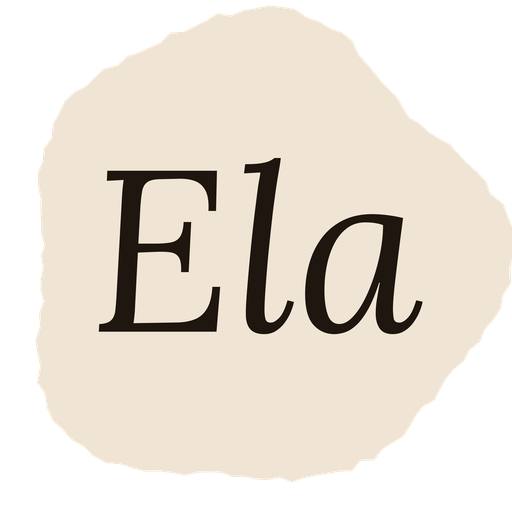
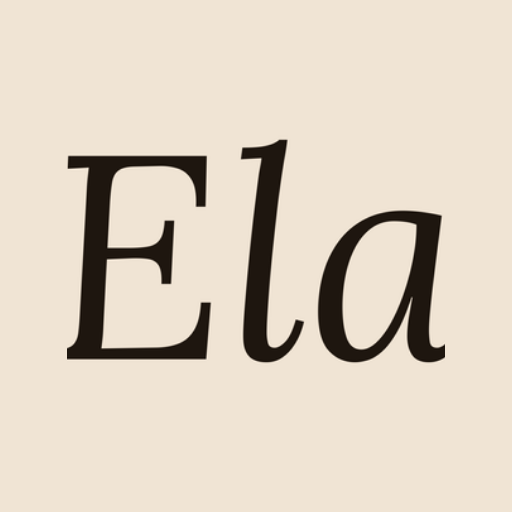
Bolsa como JB, sin parpadeo al cargar e íconos de la app arreglados
- Al agregar a la bolsa ya no se abre sola: sale un aviso con "Ver bolsa".
- La cantidad no baja de 1 con "−" ni pasa de la existencia; se puede
  escribir a mano.
- Sin parpadeo: lo que se ve al abrir aparece enseguida y cada sección
  se anima una sola vez (antes se prendían y apagaban en el borde).
- Íconos de la app de la tienda con fondo crema completo y "Ela"
  centrado (antes salía cortado y con manchas negras).

Claude-Session: https://claude.ai/code/session_01U8XhGfyy5eipPexF12LXMT

diff --git a/src/components/Storefront.tsx b/src/components/Storefront.tsx
@@ -55,6 +55,21 @@ const prettyDate = (iso: string) => { const [y, m, d] = iso.split('-').map(Numbe
 /** Si una foto no carga (enlace roto), muestra la imagen de respaldo. */
 const onImgError = (event: React.SyntheticEvent<HTMLImageElement>) => { const img = event.currentTarget; if (!img.src.endsWith(PLACEHOLDER)) img.src = PLACEHOLDER }
 
+/** Cantidad escrita a mano (igual que en JB): no deja pasar de lo que hay
+ * en existencia ni bajar de 1. */
+function QtyInput({ value, max, onChange }: { value: number; max: number; onChange: (next: number) => void }) {
+  const [draft, setDraft] = useState<string | null>(null)
+  const limit = Math.max(1, max)
+  return <input className="qty-input" type="number" inputMode="numeric" pattern="[0-9]*" min={1} max={limit} aria-label="Cantidad" value={draft ?? String(value)}
+    onFocus={(event) => event.target.select()}
+    onChange={(event) => {
+      const next = Math.floor(Number(event.target.value))
+      setDraft(Number.isFinite(next) && next > limit ? String(limit) : event.target.value)
+      if (Number.isFinite(next) && next >= 1) onChange(Math.min(next, limit))
+    }}
+    onBlur={() => setDraft(null)} />
+}
+
 /** Logotipo tipográfico de ELA: "Ela" en trazo cursivo + "esencia" en
  * versalitas espaciadas debajo — sin insignia circular. */
 function BrandMark({ className = '' }: { className?: string }) {
@@ -88,14 +103,27 @@ function BlockSprig({ left: Left, right: Right }: { left: React.ComponentType; r
  * los elementos nuevos que se agregan al DOM. */
 function useScrollReveal(deps: unknown[]) {
   useEffect(() => {
-    if (typeof IntersectionObserver === 'undefined') return
-    const observer = new IntersectionObserver(
-      (entries) => {
-        for (const entry of entries) entry.target.classList.toggle('in-view', entry.isIntersecting)
-      },
-      { threshold: 0.15, rootMargin: '0px 0px -6% 0px' },
-    )
-    document.querySelectorAll('.reveal').forEach((element) => observer.observe(element))
+    const root = document.documentElement
+    const elements = Array.from(document.querySelectorAll<HTMLElement>('.reveal:not(.in-view)'))
+    if (typeof IntersectionObserver === 'undefined') { elements.forEach((element) => element.classList.add('in-view')); return }
+    // Lo que ya se ve en pantalla se muestra enseguida (sin esconderlo
+    // primero): antes todo empezaba invisible y la página "parpadeaba".
+    const viewport = window.innerHeight
+    for (const element of elements) {
+      const box = element.getBoundingClientRect()
+      if (box.top < viewport && box.bottom > 0) element.classList.add('in-view')
+    }
+    root.classList.add('reveal-on')
+    // Cada sección se anima UNA sola vez. Antes se volvía a esconder al
+    // salir de pantalla y, en el borde, se prendía y apagaba sin parar.
+    const observer = new IntersectionObserver((entries) => {
+      for (const entry of entries) {
+        if (!entry.isIntersecting) continue
+        entry.target.classList.add('in-view')
+        observer.unobserve(entry.target)
+      }
+    }, { threshold: 0.12 })
+    elements.filter((element) => !element.classList.contains('in-view')).forEach((element) => observer.observe(element))
     return () => observer.disconnect()
     // eslint-disable-next-line react-hooks/exhaustive-deps
   }, deps)
@@ -158,21 +186,38 @@ export function Storefront({ data }: Props) {
   const cartCount = cart.reduce((sum, line) => sum + line.quantity, 0)
   const subtotal = cart.reduce((sum, line) => sum + line.price * line.quantity, 0)
 
+  // Al agregar NO se abre la bolsa (igual que en JB): sale un aviso con
+  // "Ver bolsa" y la clienta sigue viendo productos.
+  const [toast, setToast] = useState<{ title: string; name: string; image: string } | null>(null)
+  const [toastVisible, setToastVisible] = useState(false)
+  const toastTimer = useRef<ReturnType<typeof setTimeout> | null>(null)
+  const showToast = (next: { title: string; name: string; image: string }) => {
+    setToast(next); setToastVisible(true)
+    if (toastTimer.current) clearTimeout(toastTimer.current)
+    toastTimer.current = setTimeout(() => setToastVisible(false), 3200)
+  }
   const addToCart = (product: Product) => {
+    const inCart = cart.find((line) => line.productId === product.id)?.quantity ?? 0
+    if (inCart >= product.stock) {
+      showToast({ title: `Ya tienes en la bolsa todas las que hay (${product.stock})`, name: product.name, image: product.image })
+      return
+    }
     setCart((current) => {
       const existing = current.find((line) => line.productId === product.id)
       if (existing) return current.map((line) => line.productId === product.id ? { ...line, quantity: Math.min(line.quantity + 1, product.stock) } : line)
       return [...current, { productId: product.id, name: product.name, price: product.price, quantity: 1, image: product.image }]
     })
-    setCartOpen(true)
+    showToast({ title: inCart ? `Agregado a tu bolsa · ya son ${inCart + 1}` : 'Agregado a tu bolsa', name: product.name, image: product.image })
   }
 
-  const changeQuantity = (id: number, delta: number) => setCart((current) => current.flatMap((line) => {
-    if (line.productId !== id) return [line]
-    const product = goods.find((item) => item.id === id)
-    const quantity = Math.min(line.quantity + delta, product?.stock ?? line.quantity)
-    return quantity > 0 ? [{ ...line, quantity }] : []
-  }))
+  const stockOf = (id: number) => goods.find((item) => item.id === id)?.stock ?? 0
+  // La cantidad nunca baja de 1 con el botón "−": para quitar un producto
+  // está el botón de la papelera. Tampoco pasa de lo que hay en existencia.
+  const setQuantity = (id: number, quantity: number) => setCart((current) => current.map((line) => line.productId === id ? { ...line, quantity: Math.max(1, Math.min(Math.floor(quantity) || 1, Math.max(1, stockOf(id)))) } : line))
+  const changeQuantity = (id: number, delta: number) => {
+    const line = cart.find((item) => item.productId === id)
+    if (line) setQuantity(id, line.quantity + delta)
+  }
 
   async function submitOrder(event: React.FormEvent<HTMLFormElement>) {
     event.preventDefault()
@@ -343,9 +388,13 @@ export function Storefront({ data }: Props) {
 
     {whatsapp && <a className="wa-float" href={waHref('Hola ELA, quiero información.')} target="_blank" rel="noreferrer" aria-label="Escríbenos por WhatsApp"><MessageCircle /><span>¿Dudas? Escríbenos</span></a>}
 
+    <div className={`cart-toast ${toastVisible ? 'visible' : ''}`} role="status" aria-live="polite">
+      {toast && <><img src={toast.image || PLACEHOLDER} alt="" onError={onImgError} /><div><strong>{toast.title}</strong><span>{toast.name}</span></div><button onClick={() => { setToastVisible(false); setCartOpen(true) }}>Ver bolsa</button></>}
+    </div>
+
     <div className={`overlay ${cartOpen ? 'visible' : ''}`} onClick={() => setCartOpen(false)} />
     <aside className={`cart-drawer ${cartOpen ? 'open' : ''}`}><div className="drawer-head"><div><span className="drawer-kicker">BOLSA · {cartCount} PIEZAS</span><h2>{copy.cartTitle}</h2></div><button className="icon-button" onClick={() => setCartOpen(false)} aria-label="Cerrar bolsa"><X /></button></div>
-      <div className="cart-lines">{cart.map((line) => <div className="cart-line" key={line.productId}><img src={line.image || PLACEHOLDER} alt="" onError={onImgError} /><div><h4>{line.name}</h4><p>{money(line.price)}</p><div className="quantity"><button onClick={() => changeQuantity(line.productId, -1)} aria-label="Quitar uno"><Minus /></button><span>{line.quantity}</span><button onClick={() => changeQuantity(line.productId, 1)} aria-label="Agregar uno"><Plus /></button></div></div><button className="remove" aria-label="Quitar de la bolsa" onClick={() => setCart((current) => current.filter((item) => item.productId !== line.productId))}><Trash2 /></button></div>)}{!cart.length && <div className="empty-cart"><ShoppingBag /><h3>Tu bolsa está esperando</h3><p>Elige algún producto artesanal.</p></div>}</div>
+      <div className="cart-lines">{cart.map((line) => <div className="cart-line" key={line.productId}><img src={line.image || PLACEHOLDER} alt="" onError={onImgError} /><div><h4>{line.name}</h4><p>{money(line.price)}</p><div className="quantity"><button onClick={() => changeQuantity(line.productId, -1)} disabled={line.quantity <= 1} aria-label="Quitar uno"><Minus /></button><QtyInput value={line.quantity} max={stockOf(line.productId)} onChange={(next) => setQuantity(line.productId, next)} /><button onClick={() => changeQuantity(line.productId, 1)} disabled={line.quantity >= stockOf(line.productId)} aria-label="Agregar uno"><Plus /></button></div>{line.quantity >= stockOf(line.productId) && <small className="qty-max">Son todas las que hay</small>}</div><button className="remove" aria-label="Quitar de la bolsa" onClick={() => setCart((current) => current.filter((item) => item.productId !== line.productId))}><Trash2 /></button></div>)}{!cart.length && <div className="empty-cart"><ShoppingBag /><h3>Tu bolsa está esperando</h3><p>Elige algún producto artesanal.</p></div>}</div>
       <div className="cart-summary"><div><span>Subtotal</span><strong>{money(subtotal)}</strong></div><p>La entrega se coordina después de confirmar el pedido.</p><button className="primary-button full" disabled={!cart.length} onClick={() => { setCartOpen(false); setCheckoutOpen(true) }}>Continuar al checkout <ArrowRight /></button></div>
     </aside>
 

diff --git a/src/styles.css b/src/styles.css
@@ -264,8 +264,11 @@ form input,form textarea,form select,.editor-fields input,.editor-fields textare
    (fade + sube) cuando entra en pantalla y vuelve a su estado oculto
    si sale de pantalla (subiendo hacia el navbar u otra vez hacia
    abajo), para que la animación se repita cada vez que se cruza. */
-.reveal{opacity:0;transform:translateY(34px);transition:opacity .9s cubic-bezier(.16,.84,.44,1),transform .9s cubic-bezier(.16,.84,.44,1)}
-.reveal.in-view{opacity:1;transform:none}
+/* Solo se esconde lo que está más abajo de la pantalla, y solo cuando ya
+   cargó el código (clase reveal-on): sin eso, la página se veía en blanco
+   y luego aparecía de golpe. */
+.reveal{transition:opacity .8s cubic-bezier(.16,.84,.44,1),transform .8s cubic-bezier(.16,.84,.44,1)}
+.reveal-on .reveal:not(.in-view){opacity:0;transform:translateY(24px)}
 .reveal.in-view.delay-1{transition-delay:.12s}
 .reveal.in-view.delay-2{transition-delay:.24s}
 .reveal.in-view.delay-3{transition-delay:.36s}
@@ -841,3 +844,17 @@ img{max-width:100%}
 .price-was{display:block;font:400 13px var(--font-body);color:var(--muted);text-decoration:line-through}
 @media(max-width:620px){.service-info .product-action strong{font-size:19px}.product-action strong{font-size:22px}}
 .product-modal .invoice-summary{margin:0 0 18px;line-height:1.5}
+
+/* ═══ Bolsa como JB: aviso al agregar y cantidad mínima 1 ═══ */
+.cart-toast{position:fixed;left:50%;bottom:18px;z-index:70;display:flex;align-items:center;gap:12px;width:min(440px,calc(100vw - 24px));background:var(--ink);color:white;padding:10px 10px 10px 10px;box-shadow:0 18px 40px -12px rgba(20,16,10,.55);transform:translate(-50%,140%);opacity:0;transition:transform .4s cubic-bezier(.16,.84,.44,1),opacity .3s;pointer-events:none}
+.cart-toast.visible{transform:translate(-50%,0);opacity:1;pointer-events:auto}
+.cart-toast img{width:46px;height:46px;object-fit:cover;flex:none}
+.cart-toast div{flex:1;min-width:0}
+.cart-toast strong{display:block;font-size:13px}
+.cart-toast span{display:block;font-size:12px;color:#d8c9b2;white-space:nowrap;overflow:hidden;text-overflow:ellipsis}
+.cart-toast button{flex:none;border:0;background:var(--gold);color:var(--ink);font-weight:700;font-size:13px;padding:10px 14px;cursor:pointer}
+@media(max-width:620px){.cart-toast{bottom:84px}}
+.quantity button:disabled{opacity:.3;cursor:not-allowed}
+.qty-input{width:38px;border:0;background:transparent;text-align:center;font:11px var(--font-mono);padding:4px 0;-moz-appearance:textfield}
+.qty-input::-webkit-outer-spin-button,.qty-input::-webkit-inner-spin-button{-webkit-appearance:none;margin:0}
+.qty-max{display:block;margin-top:6px;font-size:11px;color:var(--gold-dark)}

diff --git a/src/routes/__root.tsx b/src/routes/__root.tsx
@@ -80,7 +80,7 @@ export const Route = createRootRoute({
       { rel: 'icon', type: 'image/png', sizes: '16x16', href: '/favicon-16x16.png' },
       { rel: 'icon', type: 'image/png', sizes: '32x32', href: '/favicon-32x32.png' },
       { rel: 'icon', type: 'image/png', sizes: '48x48', href: '/favicon-48x48.png' },
-      { rel: 'apple-touch-icon', sizes: '180x180', href: '/apple-touch-icon.png' },
+      { rel: 'apple-touch-icon', sizes: '180x180', href: '/apple-touch-icon.png?v=2' },
       { rel: 'msapplication-config', href: '/browserconfig.xml' },
     ],
   }),

diff --git a/AGENTS.md b/AGENTS.md
@@ -78,3 +78,9 @@ ELA es una aplicación TanStack Start desplegada en Cloudflare Workers, para un 
 - **Gastos** (tabla `expenses`): 'negocio' o 'personal'.
 - **Finanzas** (en `AdminPanel.tsx`): cuentan pedidos y citas "Pagado" no cancelados (las citas no tienen costo). Mismas fórmulas que JB: Dinero del negocio = capital inicial − compras con dinero del negocio + (costo de lo vendido − recuperado de reinversión) − gastos del negocio; Dinero para reinvertir = % de la ganancia del negocio − compras con ese dinero + lo recuperado; Puedes retirar = el resto de la ganancia + ganancia propia de la reinversión − gastos personales. `capitalInicial` y `reinvestPercent` están en `content` (privados).
 - El crédito "GADR Net" del pie usa el mismo estilo oficial que JB (letra recta, "Net" en #9FAD90, punto #B2603C).
+
+## Bolsa, animaciones e íconos (septiembre 2026)
+
+- **Bolsa como JB:** al agregar NO se abre la bolsa; sale un aviso con "Ver bolsa". La cantidad nunca baja de 1 con "−" (para quitar está la papelera) ni pasa de la existencia; se puede escribir a mano (`QtyInput`).
+- **Animaciones al bajar:** lo que ya está en pantalla se muestra enseguida y cada sección se anima una sola vez (`useScrollReveal` + clase `reveal-on` en `<html>`). Antes todo empezaba invisible y las secciones del borde se prendían y apagaban (parpadeo).
+- **Íconos de la tienda** (`android-chrome-*`, `apple-touch-icon`): fondo crema #f0e4d4 completo con "Ela" centrado, sin la mancha recortada; en el manifest llevan `?v=2` para que los teléfonos los actualicen.
